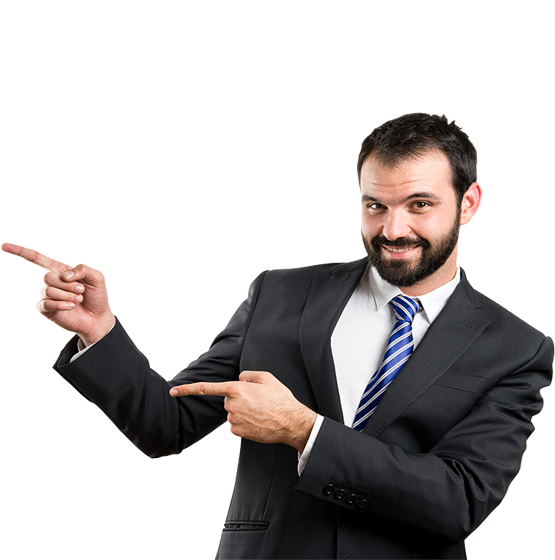
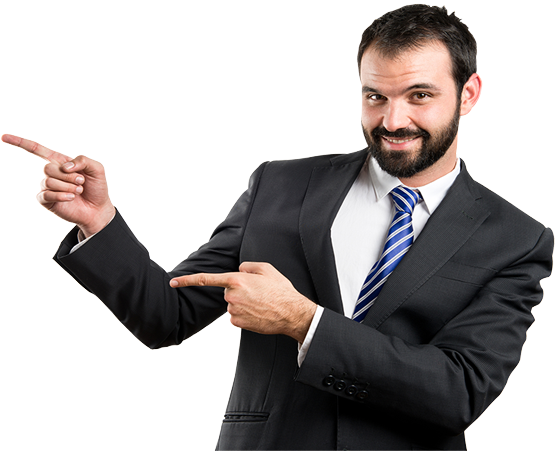
completed

diff --git a/index.html b/index.html
@@ -22,9 +22,9 @@
       </label>
       <!-- Navigation Bar -->
        <header>
-        <nav>
+        <nav >
            <div class="container container1">
-             <div class="logo">LoGo</div>
+             <div class="logo"><a href="#hero"><img src="./assets/Logo.png" alt="LOGO" width="90px"></a></div>
              <div class="menu flex">
                <ul>
                  <li><a href="#hero">Home</a></li>
@@ -44,10 +44,12 @@
         <div class="container container2">
           <div class="hero-text">
             <p>Hi, I'm <b> Nishan Lakhe</b></p>
-            <h1>Soft. Engineer</h1>
+            <br>
+           <h1>Soft. Engineer</h1>
+           <br>
             <p>I love coding and love to do it</p>
             <br />
-            <button class="Cv-btn"><a href="#"> Download Cv</a></button>
+            <button class="Cv-btn"><a href="#contact"> Download Cv</a></button>
           </div>
           <div class="hero-image">
             <img src="./assets/hero-image.png" alt="hero-image" />
@@ -294,5 +296,25 @@
         
       </a>
     </div>
+    <iframe class="chatbot"
+src="https://www.chatbase.co/chatbot-iframe/40J-JF40vCHWIpwlMaenh"
+width="100%"
+style="height: 100%; min-height: 700px"
+frameborder="0"
+></iframe>
+
+
+<script>
+  window.embeddedChatbotConfig = {
+  chatbotId: "40J-JF40vCHWIpwlMaenh",
+  domain: "www.chatbase.co"
+  }
+  </script>
+  <script
+  src="https://www.chatbase.co/embed.min.js"
+  chatbotId="40J-JF40vCHWIpwlMaenh"
+  domain="www.chatbase.co"
+  defer>
+  </script>
   </body>
 </html>

diff --git a/style.css b/style.css
@@ -123,12 +123,13 @@ nav ul {
 }
 
 .hero-image {
+  width: 35%;
   width: 100%;
   height: 100%;
   display: flex;
   justify-content: center;
   align-items: center;
-  overflow: hidden;
+  /* overflow: hidden; */
 }
 
 .hero-image img {
@@ -136,20 +137,25 @@ nav ul {
   height: auto;
   object-fit: cover;
   border-radius: 10px;
+  filter: drop-shadow(0px 0px 10px black);
 }
 
 .hero-text {
-  margin-left: 5rem;
+  width: 65%;
+  margin-left: 8rem;
   font-size: 20px;
 }
 
 .Cv-btn {
-  color: #000;
-  background-color: orange;
-  font-weight: bolder;
-  font-size: 1rem;
+  background-color: rgb(69, 67, 64);
+  border-radius: 50px;
+  width: 140px;
+  height: 40px;
+  box-shadow: var(--shadow);
+  border: 1px solid black;
 }
 button a {
+  color: white;
   text-decoration: none;
 }
 
@@ -369,6 +375,7 @@ button a {
   justify-content: center;
   align-items: center;
   text-decoration: none;
+  gap: 20px;
 }
 #OR {
   padding-top: 3rem;
@@ -420,6 +427,10 @@ footer .top ul li {
   height: 70px;
   border-radius: 60%;
   position: fixed;
-  right: 20px;
-  bottom: 60px;
+  right: 12px;
+  bottom: 80px;
+}
+
+.chatbot {
+  display: none;
 }
